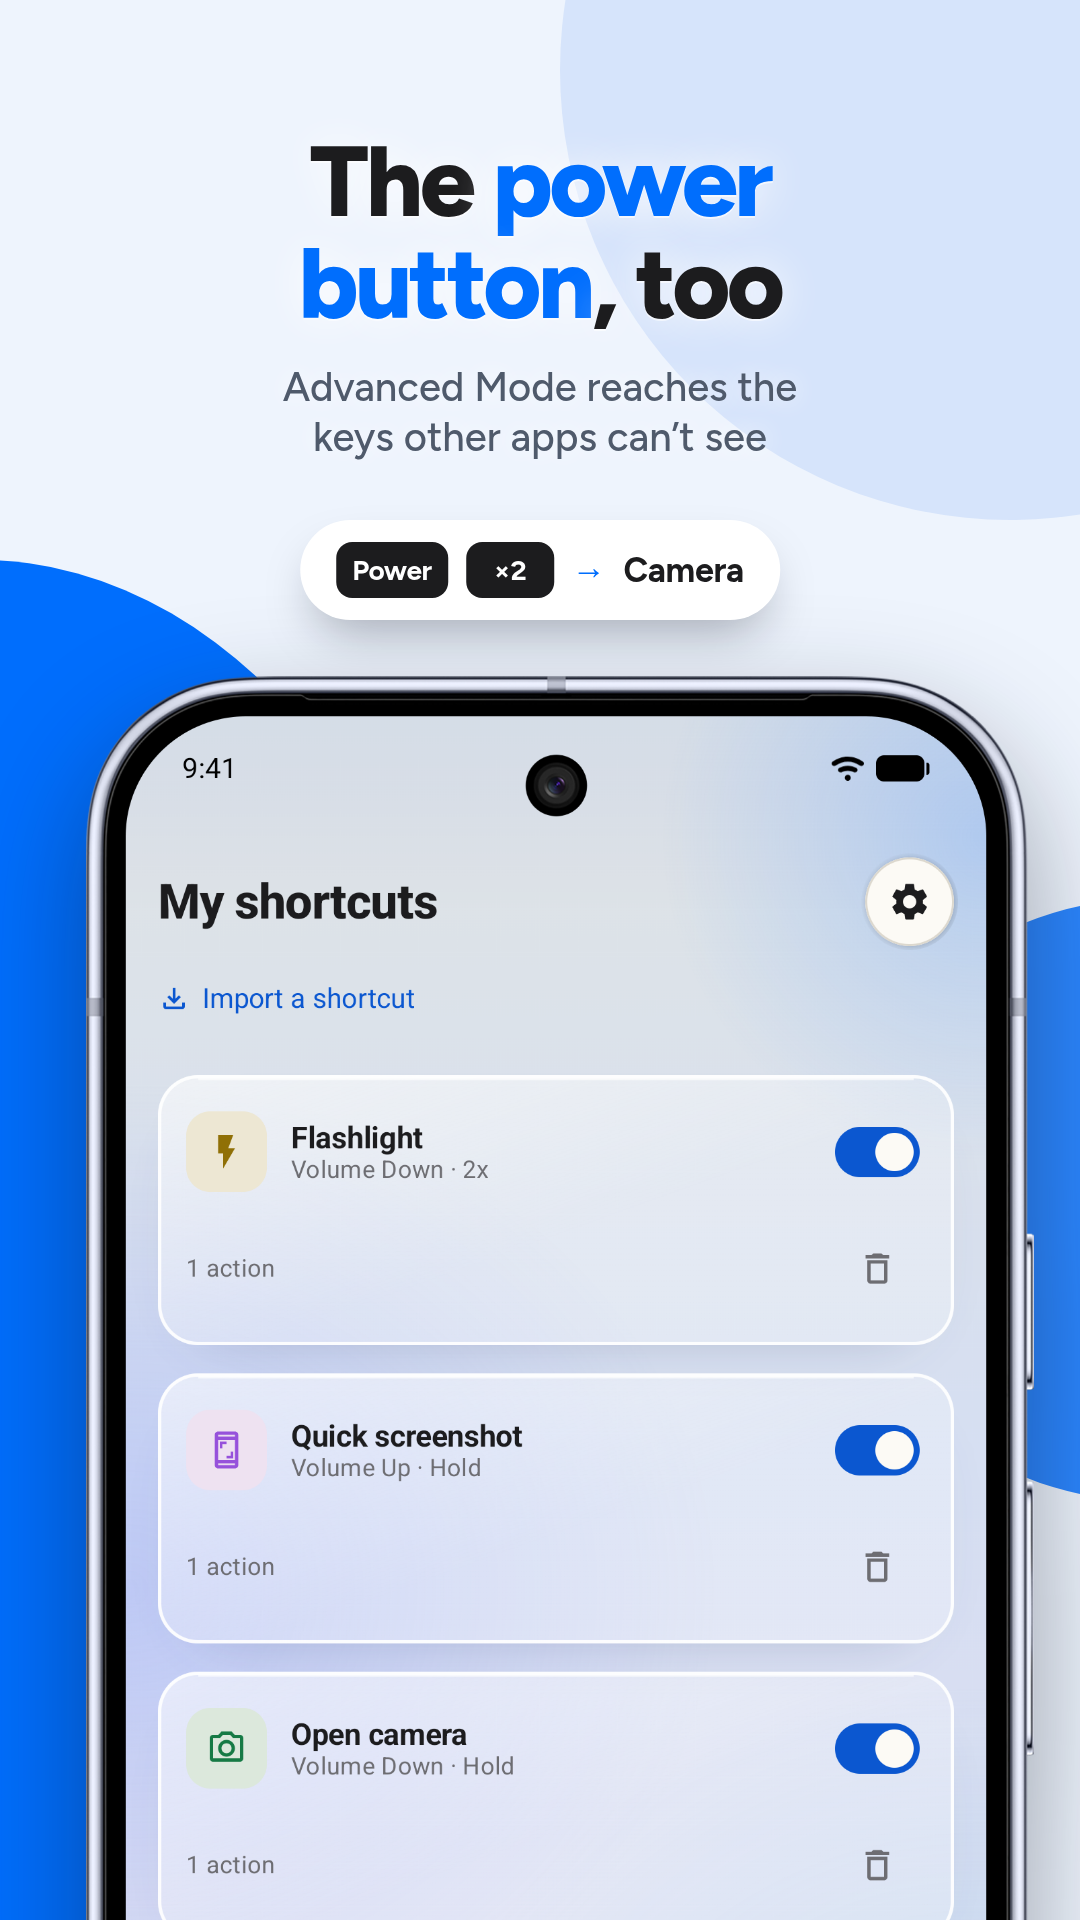
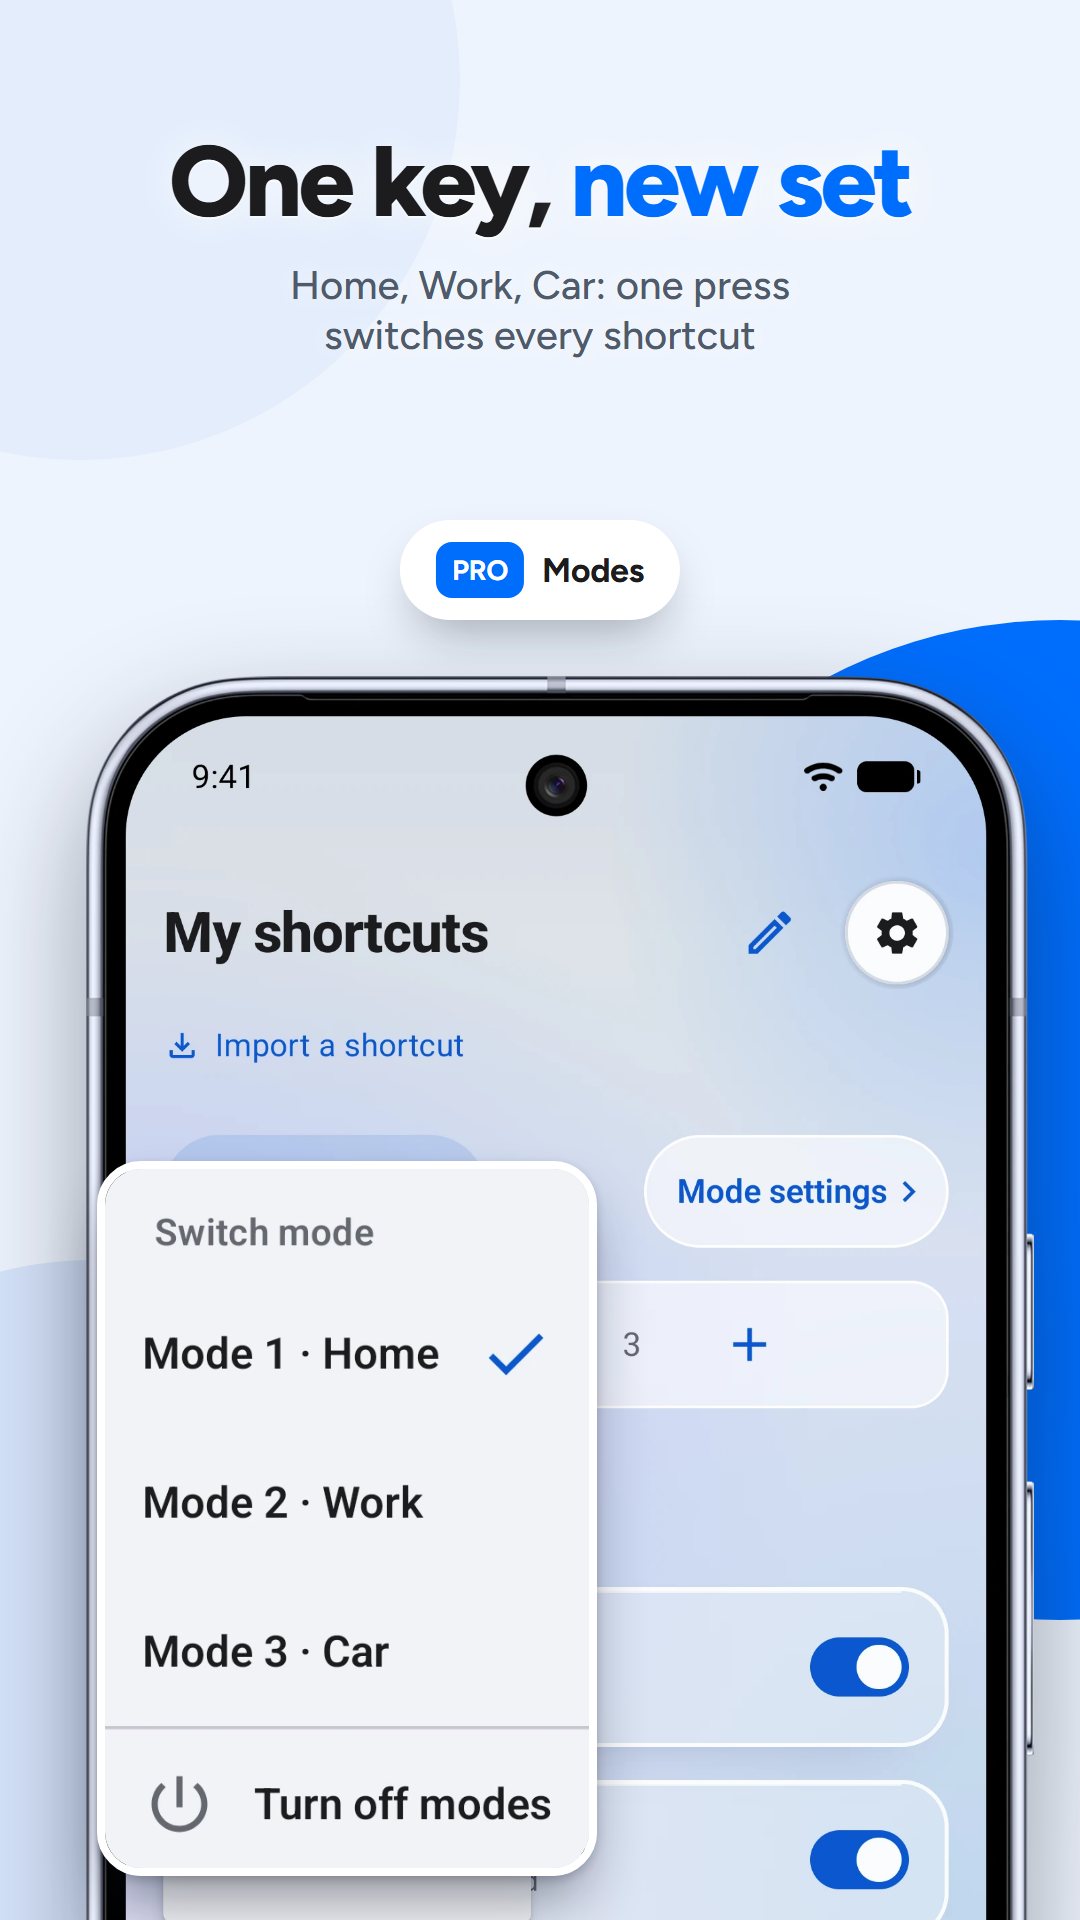
Refresh README with the new store screenshots and Pro features
New screenshot set, AI builder, key capsule and modes in the feature list, fifteen languages, free widgets. Removes the stale CNAME and app-ads.txt.

diff --git a/docs/guide.md b/docs/guide.md
@@ -30,7 +30,7 @@ Shortcuts run in the background. Local actions work offline; web requests, links
 
 **Triggers.** Any hardware key Android reports: volume, power, camera, the assistant button, headset buttons, keys on a Bluetooth keyboard or game controller, and unlabelled OEM buttons you can name yourself. Each key can be a single press, a double press or a long press, and a trigger can also be several keys pressed together, such as Volume Up + Volume Down. There is also an **Automation** trigger with no key at all: it fires when its conditions become true. Any shortcut can also run from a **home-screen widget** or one of three **Quick Settings tiles**, and a shortcut can skip the key entirely and live only there, so a phone without a spare button still gets a one-tap way in.
 
-**Actions.** 90, in twelve groups: input and gestures, apps, flashlight, navigation, volume, display, media, connectivity, keyboard, device, sound and automation. Every action's settings are visible in the editor before it runs, and privileged ones such as shell commands, intents and HTTP requests show the exact command or URL they will execute.
+**Actions.** 91, in twelve groups: input and gestures, apps, flashlight, navigation, volume, display, media, connectivity, keyboard, device, sound and automation. Every action's settings are visible in the editor before it runs, and privileged ones such as shell commands, intents and HTTP requests show the exact command or URL they will execute.
 
 **Conditions.** Attach an *Only if* list to any shortcut: time of day, day of week, charging state, battery level, Wi‑Fi network, Bluetooth device, headphones, dark mode, Do Not Disturb, ringer mode, screen and lock state, orientation, which app is in the foreground, whether media is playing, a notification from an app you choose, a limit of once every so many minutes, and more. More than fifty in total. Automations can also start at a time of day or repeat every interval, wait for a calendar event to start, or for a new item in an RSS feed you follow; the feed is checked at most every 15 minutes, at exactly the address you typed.
 
@@ -40,11 +40,15 @@ Shortcuts run in the background. Local actions work offline; web requests, links
 
 **Run history.** Each shortcut remembers its last 20 runs: when it ran, which key or automation started it, and whether each action worked. When an action can't run, a notification says why, such as a missing permission or Advanced Mode being off, and opens the shortcut. The history holds no action contents and never leaves the phone.
 
-**Key capsule.** Optional visual feedback for physical key shortcuts, with Pixel, ColorOS and Nothing styles. Customize the appearance and motion, align each recorded key separately, and preview simulated results without running an action. Enable it under Settings → Key capsule and allow display over other apps. It stays hidden on the lock screen. Feedback requires the app process to be running; the independent Advanced Mode bridge can keep executing shortcuts without it.
+**Key capsule.** Optional visual feedback for physical key shortcuts, with Pixel, ColorOS, Nothing, One UI and HyperOS styles. Customize the appearance and motion, align each recorded key separately, and preview simulated results without running an action. Enable it under Settings → Key capsule and allow display over other apps. It stays hidden on the lock screen. Feedback requires the app process to be running; the independent Advanced Mode bridge can keep executing shortcuts without it.
 
-*Coming soon: Key capsule is in development and is not included in the current Google Play release.*
+*Key capsule is part of Pro.*
 
-**Appearance.** Follow the system theme or choose light, dark or sepia, with an OLED option for dark mode. The interface ships in English, Arabic, German, Spanish, French, Hindi, Italian, Portuguese (Brazil), Russian and Turkish.
+**Modes (Pro).** Keep several sets of shortcuts, such as Home, Work and Car, and switch between them with one press. Only the active mode's shortcuts run, plus any set to always run.
+
+**Describe a shortcut (Pro).** Type what you want in one sentence, such as "open the camera with a double press", and get a draft shortcut to review before saving. The model is downloaded once through Google Play when you choose, and runs on the phone; what you type never leaves it.
+
+**Appearance.** Follow the system theme or choose light, dark or sepia, with an OLED option for dark mode. The interface ships in English, Arabic, Dutch, Filipino, German, Spanish, French, Hindi, Indonesian, Italian, Korean, Portuguese (Brazil), Russian, Turkish and Vietnamese.
 
 ## Advanced Mode
 
@@ -59,7 +63,7 @@ Input capture is strictly read-only. The bridge listens to the kernel's event st
 KeySnap asks for a permission only when you use the feature that needs it, and each one is a switch you turn on yourself in Android's settings.
 
 - **Accessibility service.** The only way an app can see hardware key presses. It is restricted to reading screen content from the system Settings app alone, and uses that solely to read the pairing code from the Wireless Debugging dialog during Advanced Mode setup.
-- **Run in the background and notifications.** So Android does not put the app to sleep, so setup can show the pairing prompt, so a shortcut that can't run can tell you why, and so a shortcut can show a notification you wrote.
+- **Run in the background and notifications.** So Android does not put the app to sleep (the battery optimisation exemption is optional), so a short-lived foreground service can keep Advanced Mode's connection and notification alive while it starts or restarts, so setup can show the pairing prompt, so a shortcut that can't run can tell you why, and so a shortcut can show a notification you wrote.
 - **Location.** Android only reveals the Wi‑Fi network name to apps holding it, so the *connected to Wi‑Fi network* condition needs it. The app never reads your position.
 - **Calendar.** Read-only, and requested only when you add a *Calendar event in progress* condition. KeySnap reads the title, calendar name, start and end of your events, and whether each is all-day or cancelled, on the phone to check them against that condition, and never saves, logs or sends them.
 - **Alarms & reminders.** Optional, and asked only when you add a *Calendar event in progress* condition. Used only to wake KeySnap at the start or end of a matching event, so the automation runs on time; nothing is read or sent through it.
@@ -91,7 +95,7 @@ On Windows PowerShell, use `.\gradlew.bat` in place of `./gradlew`. The Gradle w
 
 ## FAQ
 
-**Is it free?** The free version allows three active shortcuts and two home-screen widgets. Pro is a one-time purchase through Google Play that removes those limits; there is no subscription. The three Quick Settings tiles are free.
+**Is it free?** The free version allows three active shortcuts. Pro is a one-time purchase through Google Play that removes that limit; there is no subscription. Home-screen widgets and the three Quick Settings tiles are free.
 
 **Does it need root?** No. Everyday shortcuts use the accessibility service; Advanced Mode uses Wireless Debugging, a feature already in Android's Developer options. Nothing on the phone is modified.
 
@@ -143,4 +147,4 @@ Translations live in `app/src/main/res/values-*/strings.xml`.
 
 ## Licence
 
-KeySnap is free software under the [GNU General Public License v3.0](../LICENSE). Google Play Billing is the only third-party SDK service, used only to process and check the Pro purchase. Network actions and RSS feeds connect only to destinations you configure.
+KeySnap is free software under the [GNU General Public License v3.0](../LICENSE). Google Play Billing is the only third-party SDK in the public-source edition, used only to process and check the Pro purchase. The Pro edition adds Google Play Asset Delivery and LiteRT-LM for the optional on-device AI model; neither receives your shortcuts or key presses. Network actions and RSS feeds connect only to destinations you configure.

diff --git a/README.md b/README.md
@@ -33,21 +33,19 @@
 ## A button. A shortcut. Done.
 
 <p align="center">
-  <img src="store/play-listing/keysnap_01.png" width="32%" alt="Home: your button shortcuts at a glance">
-  <img src="store/play-listing/keysnap_02.png" width="32%" alt="Editor: double-press volume to toggle the flashlight">
-  <img src="store/play-listing/keysnap_05.png" width="32%" alt="Conditions: run a shortcut only when you want">
+  <img src="store/play-listing/keysnap_01.png" width="24%" alt="Give every button a new job: double-press Volume Down for the flashlight">
+  <img src="store/play-listing/keysnap_05.png" width="24%" alt="90+ actions, one press away">
+  <img src="store/play-listing/keysnap_06.png" width="24%" alt="Only when you want: time, Wi-Fi, battery, headphones and more">
+  <img src="store/play-listing/keysnap_07.png" width="24%" alt="No account. No cloud. Open source.">
 </p>
 
-<details>
-<summary><b>See more: Advanced Mode, privacy and themes</b></summary>
+<p align="center"><b>With Pro</b></p>
 
 <p align="center">
-  <img src="store/play-listing/keysnap_04.png" width="32%" alt="Advanced Mode: reach additional hardware buttons">
-  <img src="store/play-listing/keysnap_06.png" width="32%" alt="No account, no cloud, open source">
-  <img src="store/play-listing/keysnap_07.png" width="32%" alt="Choose light, dark or sepia themes">
+  <img src="store/play-listing/keysnap_02.png" width="24%" alt="Describe a shortcut in one sentence and get it built">
+  <img src="store/play-listing/keysnap_03.png" width="24%" alt="Key capsule: see what just ran, in five styles">
+  <img src="store/play-listing/keysnap_04.png" width="24%" alt="Modes: Home, Work, Car — one press switches every shortcut">
 </p>
-
-</details>
 
 ## What you can do
 
@@ -58,11 +56,19 @@
   </tr>
   <tr>
     <td><h3>🕒 Add conditions</h3>Time, Wi-Fi, charging or apps. Automate without pressing a key.</td>
-    <td><h3>📌 Widgets & tiles</h3>Run shortcuts from your home screen or three Quick Settings tiles.</td>
+    <td><h3>📌 Widgets & tiles</h3>Run shortcuts or switch them on and off from your home screen and Quick Settings.</td>
   </tr>
   <tr>
     <td><h3>🧩 Pick a recipe</h3>Start with a ready-made shortcut. Customize, share or import.</td>
-    <td><h3>🎨 Your look</h3>System, light, dark and sepia. OLED option. Eleven languages.</td>
+    <td><h3>🎨 Your look</h3>System, light, dark and sepia. OLED option. Fifteen languages.</td>
+  </tr>
+  <tr>
+    <td><h3>✨ Describe it <sup>Pro</sup></h3>Type one sentence, get a shortcut. The model runs on your phone.</td>
+    <td><h3>💊 Know it worked <sup>Pro</sup></h3>A small capsule shows what just ran. Pixel, ColorOS, Nothing, One UI and HyperOS styles.</td>
+  </tr>
+  <tr>
+    <td><h3>🔁 Modes <sup>Pro</sup></h3>Home, Work, Car. One press switches every shortcut.</td>
+    <td><h3>🔒 Stays on your phone</h3>No account, no cloud, no analytics. Open-source core.</td>
   </tr>
 </table>
 
@@ -83,21 +89,21 @@ Some shortcuts need an extra permission or Advanced Mode. Key support varies by 
 2. **Set up** the accessibility service using the in-app guide.
 3. **Pick a recipe** or record a button and choose an action.
 
-**Need more keys?** Optional **Advanced Mode** uses your phone's Wireless Debugging to reach additional buttons and run supported actions through an independent helper. No root required. [How it works →](docs/guide.md#advanced-mode)
+**Need more keys?** Optional **Advanced Mode** uses your phone's Wireless Debugging to reach additional buttons and run supported actions through an independent helper. [How it works →](docs/guide.md#advanced-mode)
 
 ## Good to know
 
 <details>
 <summary><b>Free or Pro?</b></summary>
 
-Free includes **three active shortcuts**, **two home-screen widgets** and all **three Quick Settings tiles**. Pro removes the shortcut and widget limits with a **one-time purchase** through Google Play. No ads or subscription.
+Free includes **three active shortcuts**, every **home-screen widget** and all **three Quick Settings tiles**. Pro removes the shortcut limit with a **one-time purchase** through Google Play. Pro can also build a shortcut from a plain sentence with an on-device model, downloaded once through Google Play when you choose; you review the result before saving. No ads or subscription.
 
 </details>
 
 <details>
 <summary><b>Privacy and permissions</b></summary>
 
-No accounts, analytics or automatic crash uploads. Your key presses and shortcuts are not automatically uploaded. Local actions work offline; network actions and RSS feeds contact the destinations you configure. Pro purchases use Google Play Billing.
+No accounts, analytics or automatic crash uploads. Your key presses and shortcuts are not automatically uploaded. Local actions work offline; network actions and RSS feeds contact the destinations you configure. Pro purchases use Google Play Billing. The optional Pro AI model uses Google Play Asset Delivery and runs offline with LiteRT-LM; typed requests never leave your phone. These two SDKs are excluded from the public-source edition.
 
 The accessibility service reads screen content only from Android's Settings app for pairing setup; it cannot read other apps' screens. Other permissions are requested when a feature needs them.
 
@@ -119,11 +125,9 @@ A reboot stops the helper. Optional **Start after restart** brings it back after
 </details>
 
 <details>
-<summary><b>Coming soon: Key capsule</b></summary>
+<summary><b>What is not in this repository?</b></summary>
 
-Pro-only customizable visual feedback for physical button shortcuts, with different styles, motion and per-key positioning. State icons reflect readable device settings and media playback; unavailable or ambiguous readings stay Unknown. In development; not included in the current Google Play release.
-
-In Advanced Mode, the detached bridge can wake a short capsule feedback service inside KeySnap after the app process closes, without opening its screen or repeating the action.
+Pro features (AI builder, key capsule and modes) are not part of the public-source edition. Here they compile to no-op stubs, so the public build runs with every free feature.
 
 </details>
 
